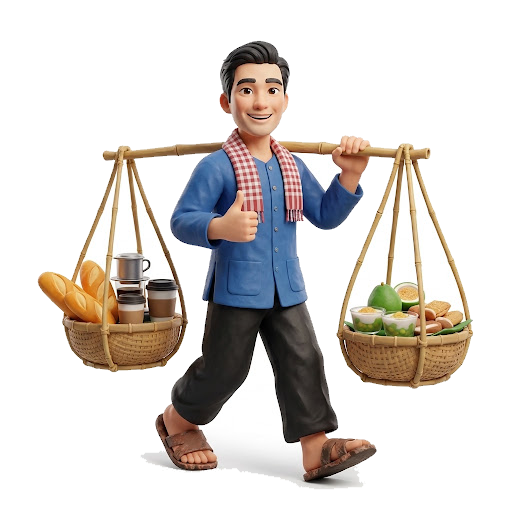
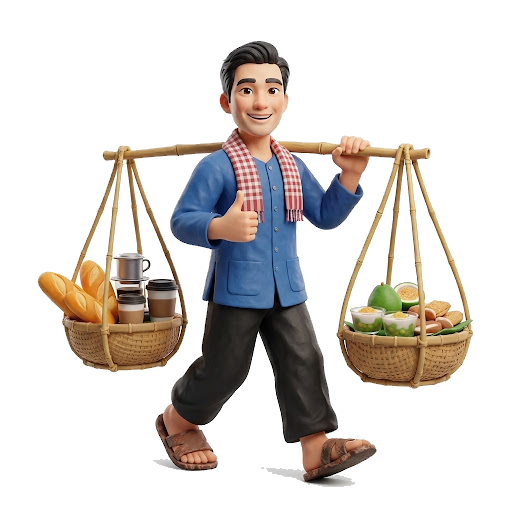
Sửa lỗi cắt nền nhân vật Tú Phan ở Bến Phù Sa và Bật Nghiệp (#658)
- tu-phan-v2.png (NPC Bến Phù Sa): các khe tam giác giữa dây quang
  gánh bị để trắng đặc thay vì trong suốt, nay đã dọn sạch.
- anh-tu-ao-dai-explain-cut.webp (hub-3d.html Bật Nghiệp): vệt đen
  lởm chởm ở khe giữa bàn tay và vạt áo, nay đã trong suốt đúng.

Bump sw.js cache lên v389 để nạp lại ảnh đã sửa.

Changed region(s): [[0.4062, 0.875, 0.6562, 0.9688], [0.6562, 0.9062, 0.7188, 0.9688], [0.2812, 0.875, 0.3438, 0.9062]]

diff --git a/sw.js b/sw.js
@@ -1,7 +1,7 @@
 /* BizOn Bật Nghiệp 2026 – Service Worker (offline app shell)
  * © 2026 Đỗ Thùy Hương & Phan Anh Tú. Bảo lưu mọi quyền. */
 
-const CACHE = 'bizon-v388';
+const CACHE = 'bizon-v389';
 const SHELL = [
   './',
   './index.html',
